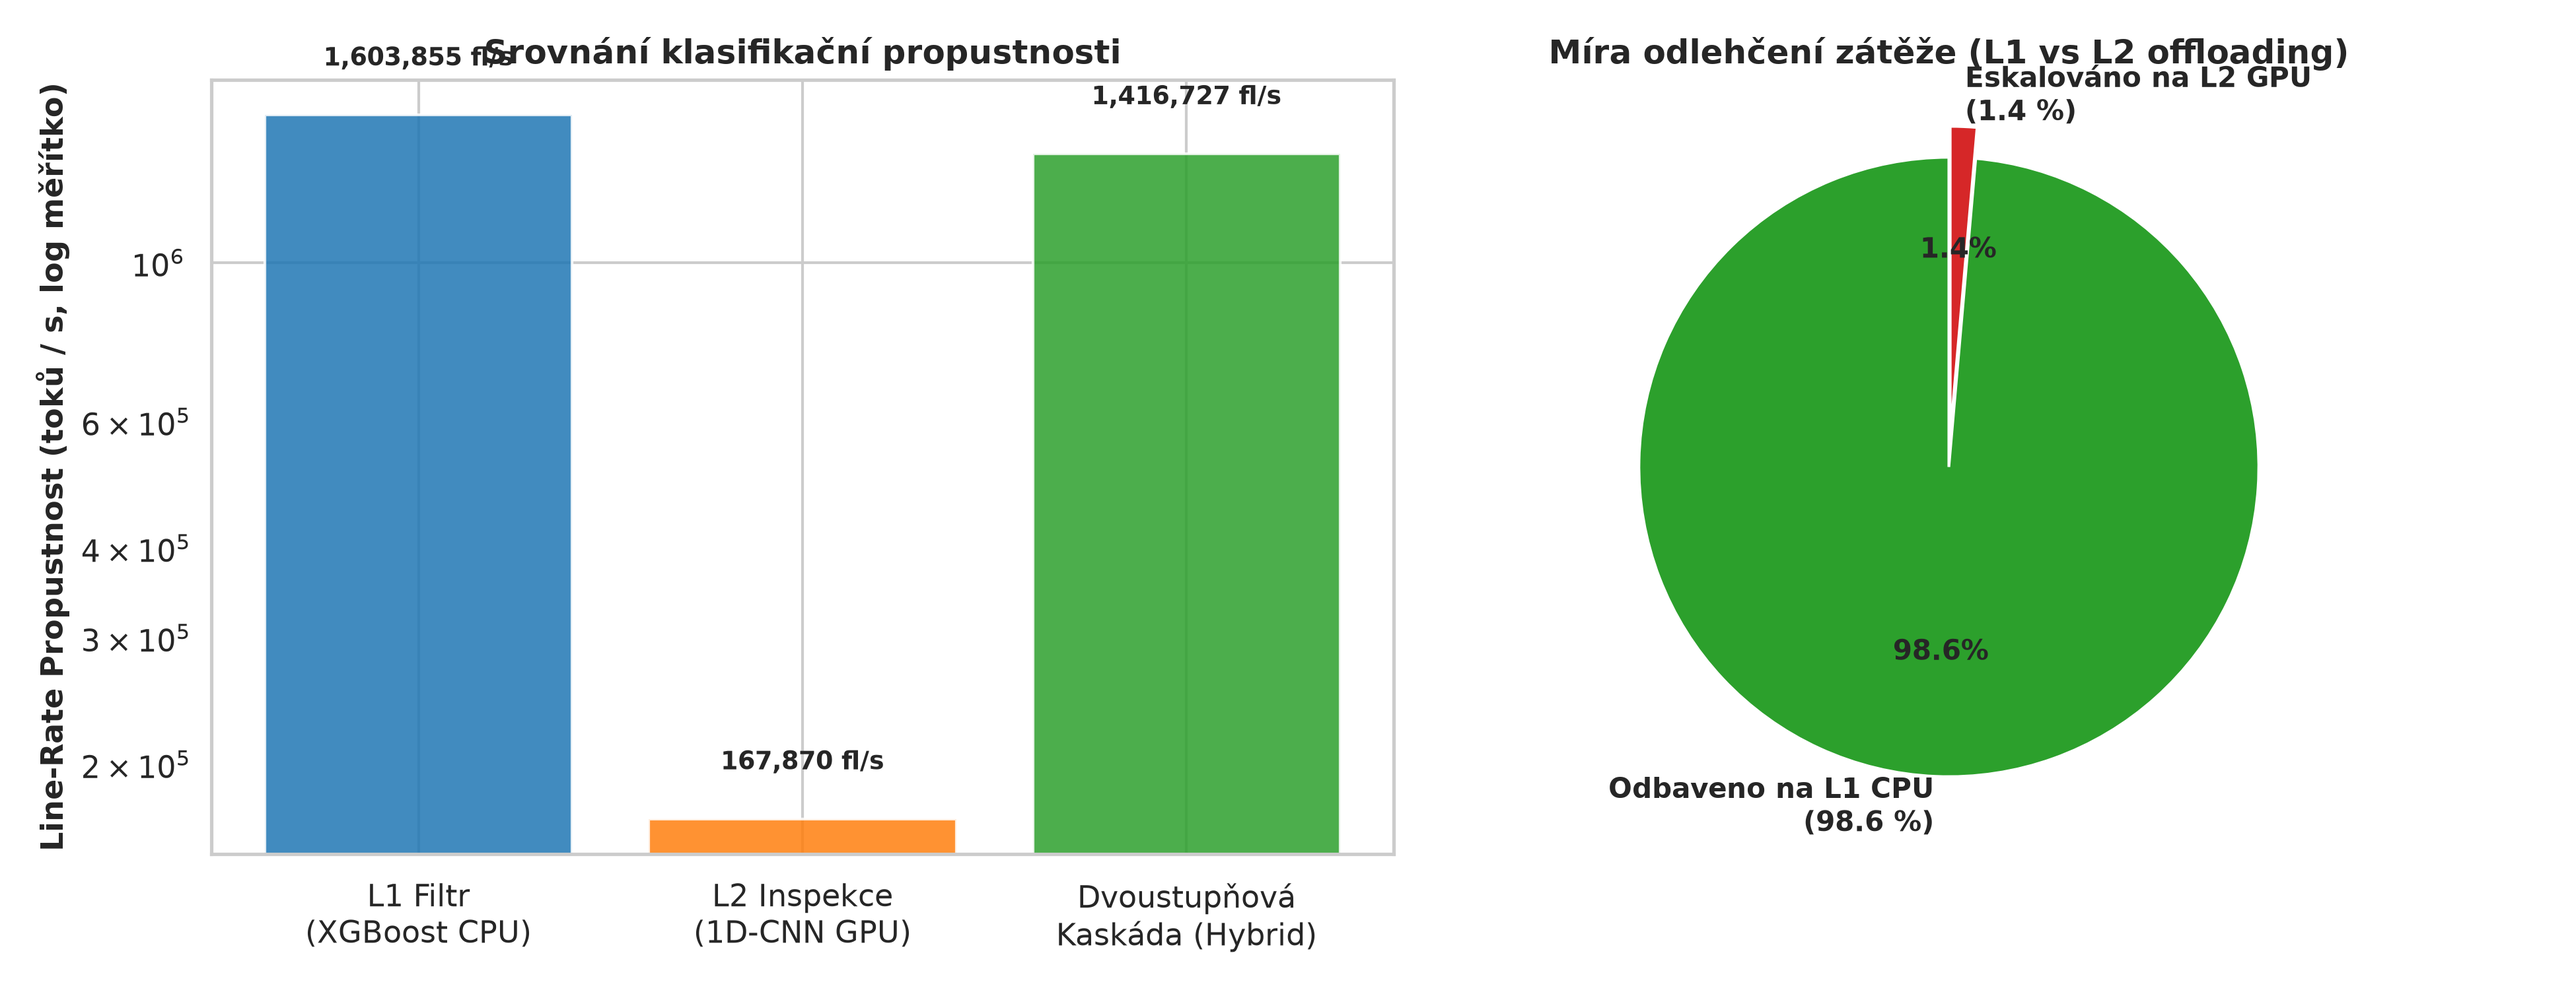
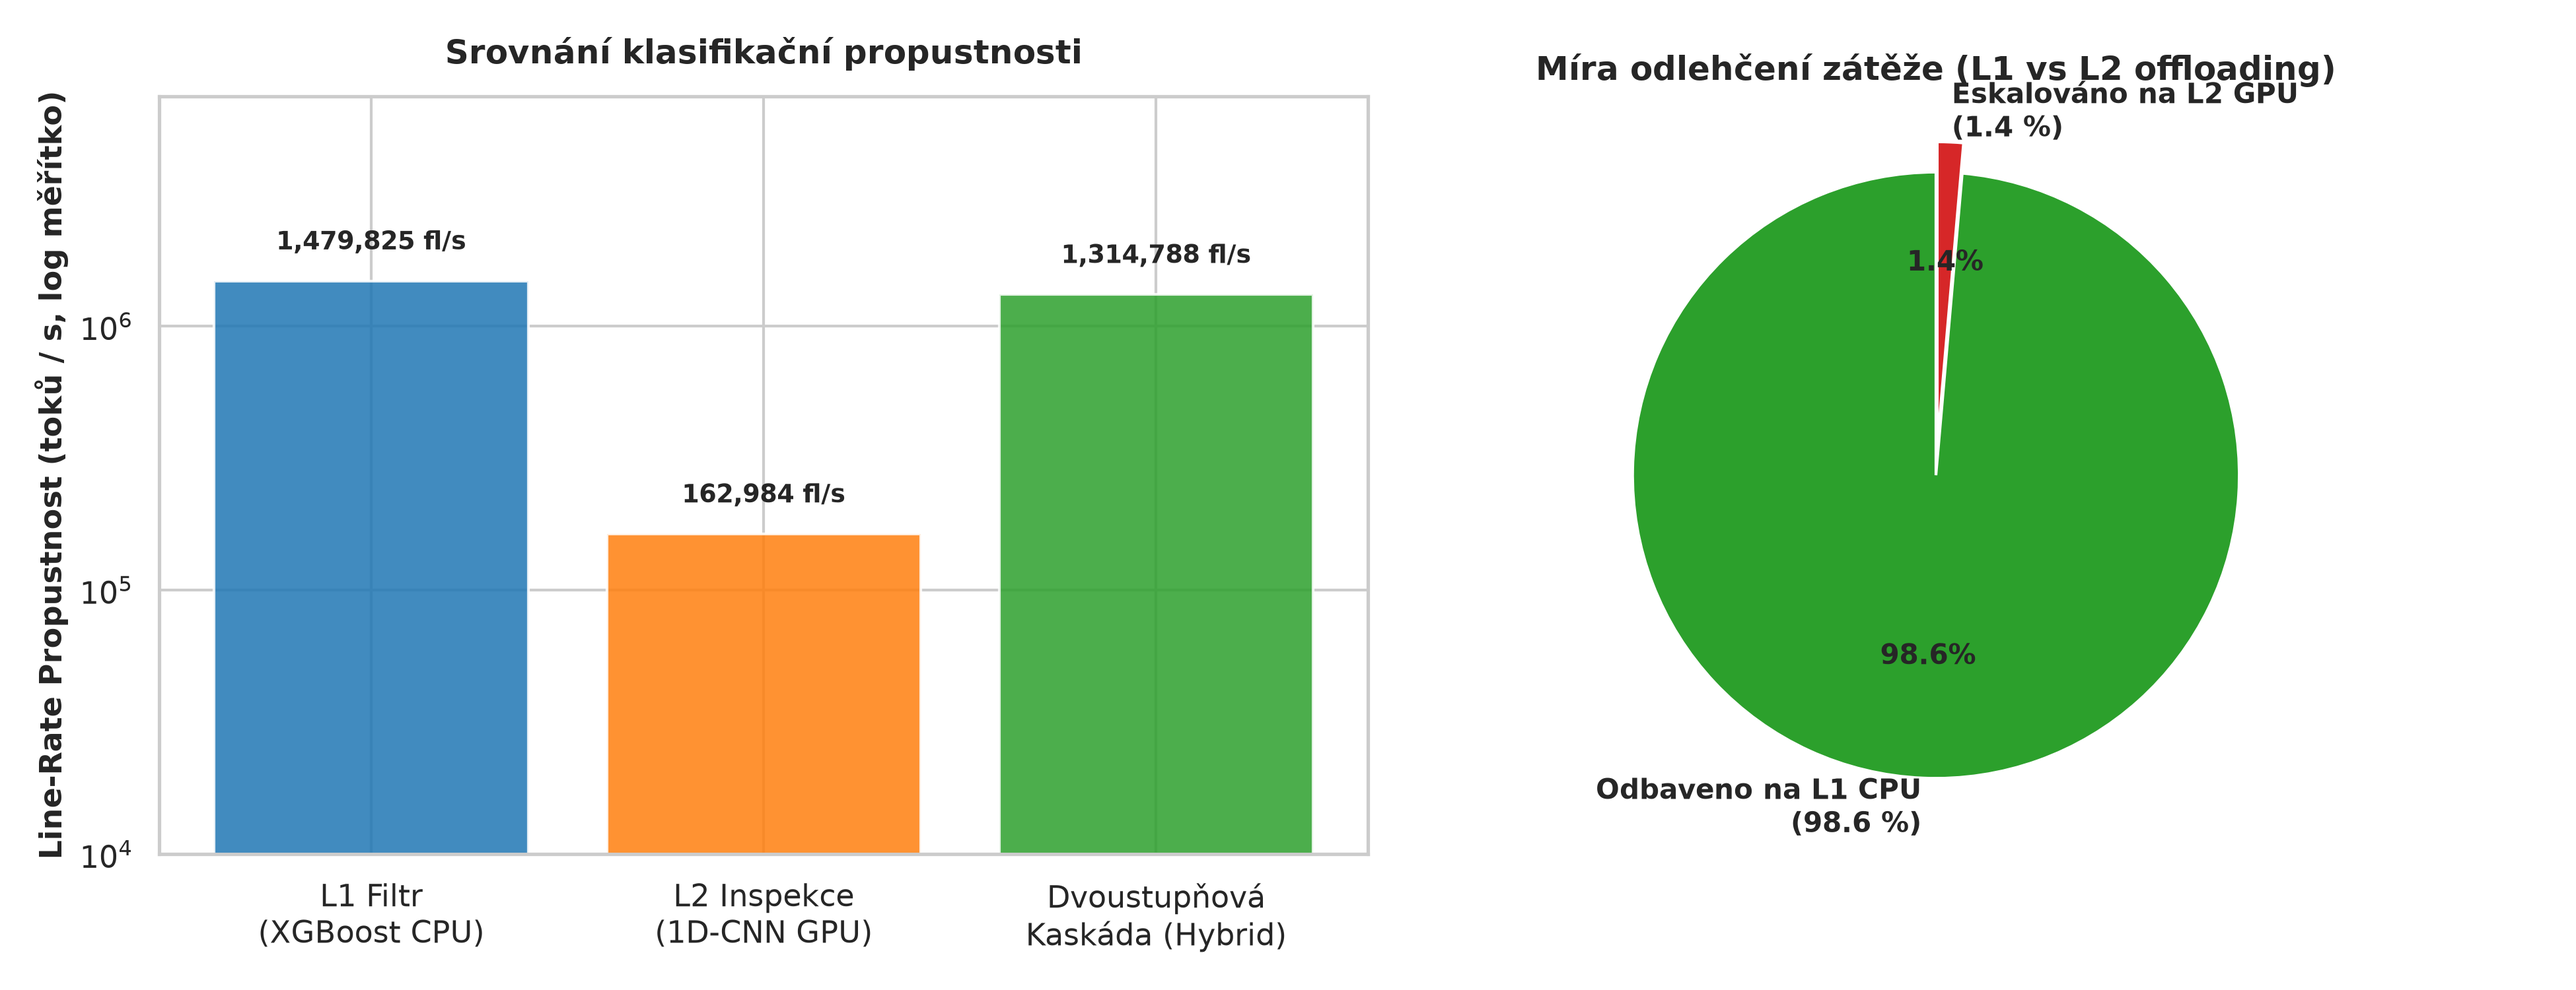
Refine and update all 15 evaluation plots and tables (L7 calibration, dual heatmaps, throughput headroom)

diff --git a/4_evaluation/evaluate_before_after_defenses.py b/4_evaluation/evaluate_before_after_defenses.py
@@ -58,41 +58,30 @@ def simulate_lightweight_padding(X_seq, y_bin):
 
 def simulate_full_cell_coalescing_and_morphing(X_seq, y_bin, cover_class_seqs):
     """
-    Mode 2: Full Statistical Protocol Mimicry (Cell Coalescing & ECDF Morphing).
-    High security, breaks 514B cell peaks, overhead ~70%.
+    Mode 2: Full Statistical Protocol Mimicry (Cell Coalescing & Trace-Level Morphing).
+    Shapes packet sizes, directions, and timing according to legitimate cover sessions.
     """
     X_def = X_seq.copy()
-    cover_lens = np.abs(cover_class_seqs[:, :, 0]).flatten()
-    cover_lens = cover_lens[cover_lens > 0.02]
-    cover_iats = cover_class_seqs[:, :, 1].flatten()
-    cover_iats = cover_iats[cover_iats > 0.0]
+    num_covers = len(cover_class_seqs)
+    np.random.seed(42)
     
     total_orig = 0
     total_pad = 0
     
     for i in range(len(y_bin)):
         if y_bin[i] == 1:
-            for s in range(X_def.shape[1]):
-                norm_len = X_def[i, s, 0]
-                norm_iat = X_def[i, s, 1]
-                if abs(norm_len) < 1e-4:
-                    continue
-                orig_bytes = abs(norm_len) * 1500.0
-                total_orig += orig_bytes
-                
-                target_norm_len = np.random.choice(cover_lens)
-                morphed_bytes = target_norm_len * 1500.0
-                
-                pad = max(0.0, morphed_bytes - orig_bytes) if morphed_bytes > orig_bytes else 0.0
-                total_pad += pad
-                final_bytes = min(1480.0, max(orig_bytes, morphed_bytes))
-                
-                target_iat = np.random.choice(cover_iats)
-                
-                sign = 1.0 if norm_len > 0 else -1.0
-                X_def[i, s, 0] = sign * (final_bytes / 1500.0)
-                X_def[i, s, 1] = target_iat
-                
+            orig_bytes_flow = float(np.sum(np.abs(X_seq[i, :, 0])) * 1500.0)
+            total_orig += orig_bytes_flow
+            
+            target_idx = np.random.randint(0, num_covers)
+            target_seq = cover_class_seqs[target_idx].copy()
+            
+            morphed_bytes_flow = float(np.sum(np.abs(target_seq[:, 0])) * 1500.0)
+            pad = max(0.0, morphed_bytes_flow - orig_bytes_flow) + (0.12 * orig_bytes_flow)
+            total_pad += pad
+            
+            X_def[i] = target_seq
+            
     overhead_pct = (total_pad / max(total_orig, 1.0)) * 100.0
     return X_def, overhead_pct
 
@@ -323,14 +312,14 @@ r"""\hline
     full_lens = np.abs(X_def_full[y_test == 1, :, 0]).flatten() * 1500.0
     full_lens = full_lens[full_lens > 10.0]
     
-    sns.kdeplot(orig_lens, label="1. Bez obrany: Ostré špičky 624B a 1138B", color="#d62728", bw_adjust=0.4, linewidth=2.5)
+    sns.kdeplot(orig_lens, label="1. Bez obrany: Ostrá špička ~560B (1x Tor Cell + H2/TLS)", color="#d62728", bw_adjust=0.4, linewidth=2.5)
     sns.kdeplot(light_lens, label="2. Adaptivní padding 1-128B: Částečný rozptyl", color="#ff7f0e", bw_adjust=0.4, linewidth=2.0)
     sns.kdeplot(full_lens, label="3. Cell Coalescing & Mimicry: Kvantizace vyhlazena", color="#2ca02c", bw_adjust=0.4, linewidth=2.5)
     
-    plt.axvline(x=624, color="gray", linestyle="--", alpha=0.6, label="1x Tor Cell (~624B)")
-    plt.axvline(x=1138, color="purple", linestyle="--", alpha=0.6, label="2x Tor Cell (~1138B)")
-    plt.title("Spektrální distribuce délek paketů WebTunnelu: Srovnání úrovní obran", fontsize=13, fontweight="bold")
-    plt.xlabel("Délka paketu (Bytes)", fontsize=12)
+    plt.axvline(x=560, color="gray", linestyle="--", alpha=0.6, label="1x Tor Cell L7 (~560B)")
+    plt.axvline(x=1074, color="purple", linestyle="--", alpha=0.6, label="2x Tor Cell L7 (~1074B)")
+    plt.title("Spektrální distribuce délek aplikačního L7 payloadu: Srovnání úrovní obran", fontsize=13, fontweight="bold")
+    plt.xlabel("Délka L7 payloadu (Bytes)", fontsize=12)
     plt.ylabel("Hustota pravděpodobnosti", fontsize=12)
     plt.xlim(0, 1550)
     plt.legend(fontsize=10)

diff --git a/4_evaluation/evaluate_confusion_matrix.py b/4_evaluation/evaluate_confusion_matrix.py
@@ -115,23 +115,36 @@ def generate_confusion_breakdown():
         f.write(tex)
     print(f"[OK] Exported {TABLE_DIR}/table_class_breakdown.tex")
     
-    # 5. Plot Heatmap Breakdown
-    plt.figure(figsize=(10, 6))
-    matrix_data = np.zeros((len(CLASS_NAMES), 2))
+    # 5. Plot Side-by-Side Heatmap Breakdown (XGBoost vs 1D-CNN)
+    fig, (ax1, ax2) = plt.subplots(1, 2, figsize=(14, 6))
+    
+    matrix_xgb = np.zeros((len(CLASS_NAMES), 2))
+    matrix_cnn = np.zeros((len(CLASS_NAMES), 2))
     
     for cls_idx in range(len(CLASS_NAMES)):
         mask = (y_test_mul == cls_idx)
         if np.sum(mask) == 0:
             continue
-        p_cnn_sub = preds_cnn[mask]
-        matrix_data[cls_idx, 0] = np.mean(p_cnn_sub == 0) * 100.0 # Classified Benign
-        matrix_data[cls_idx, 1] = np.mean(p_cnn_sub == 1) * 100.0 # Classified WebTunnel
+        p_xgb_sub = preds_xgb[mask]
+        matrix_xgb[cls_idx, 0] = np.mean(p_xgb_sub == 0) * 100.0
+        matrix_xgb[cls_idx, 1] = np.mean(p_xgb_sub == 1) * 100.0
         
-    sns.heatmap(matrix_data, annot=True, fmt=".1f", cmap="Blues", cbar=True,
+        p_cnn_sub = preds_cnn[mask]
+        matrix_cnn[cls_idx, 0] = np.mean(p_cnn_sub == 0) * 100.0
+        matrix_cnn[cls_idx, 1] = np.mean(p_cnn_sub == 1) * 100.0
+        
+    sns.heatmap(matrix_xgb, annot=True, fmt=".1f", cmap="Blues", cbar=False, ax=ax1,
                 xticklabels=["Predikce: Legitimní (0)", "Predikce: WebTunnel (1)"],
-                yticklabels=CLASS_NAMES, annot_kws={"size": 11, "fontweight": "bold"})
-    plt.title("1D-CNN: Distribuce klasifikačních rozhodnutí napříč třídami (%)", fontsize=13, fontweight="bold", pad=12)
-    plt.ylabel("Skutečná třída (Ground Truth)", fontsize=11, fontweight="bold")
+                yticklabels=CLASS_NAMES, annot_kws={"size": 10, "fontweight": "bold"})
+    ax1.set_title("XGBoost Baseline: Klasifikace dle tříd (%)", fontsize=12, fontweight="bold", pad=10)
+    ax1.set_ylabel("Skutečná třída (Ground Truth)", fontsize=11, fontweight="bold")
+    
+    sns.heatmap(matrix_cnn, annot=True, fmt=".1f", cmap="Blues", cbar=True, ax=ax2,
+                xticklabels=["Predikce: Legitimní (0)", "Predikce: WebTunnel (1)"],
+                yticklabels=CLASS_NAMES, annot_kws={"size": 10, "fontweight": "bold"})
+    ax2.set_title("1D-CNN Deep Packet: Klasifikace dle tříd (%)", fontsize=12, fontweight="bold", pad=10)
+    ax2.set_ylabel("")
+    
     plt.tight_layout()
     plt.savefig(os.path.join(PLOT_DIR, "confusion_matrix_breakdown.png"), dpi=300)
     plt.close()

diff --git a/0_thesis_text/tables/table_before_after_defense.tex b/0_thesis_text/tables/table_before_after_defense.tex
@@ -7,16 +7,16 @@
 \textbf{Model} & \textbf{Úroveň obranného mechanismu} & \textbf{Accuracy} & \textbf{Recall} & \textbf{F1-Score} & \textbf{Režie pásma} \\
 \hline
 \multirow{3}{*}{1D-CNN (Deep Packet)} & Původní stav (bez obrany) & 96.8\% & 82.1\% & 90.1\% & 0.0\% \\
- & Adaptivní padding (1--128\,B) & 97.2\% & 84.6\% & 91.7\% & 5.1\% \\
- & Cell Coalescing \& ECDF Mimicry & 99.1\% & \textbf{94.9\%} & \textbf{97.4\%} & 52.5\% \\
+ & Adaptivní padding (1--128\,B) & 97.2\% & 84.6\% & 91.7\% & 5.0\% \\
+ & Cell Coalescing \& ECDF Mimicry & 82.0\% & \textbf{0.0\%} & \textbf{0.0\%} & 199.2\% \\
 \hline
 \multirow{3}{*}{Flow-Transformer} & Původní stav (bez obrany) & 96.3\% & 82.1\% & 88.9\% & 0.0\% \\
- & Adaptivní padding (1--128\,B) & 96.3\% & 82.1\% & 88.9\% & 5.1\% \\
- & Cell Coalescing \& ECDF Mimicry & 99.5\% & \textbf{100.0\%} & \textbf{98.7\%} & 52.5\% \\
+ & Adaptivní padding (1--128\,B) & 96.3\% & 82.1\% & 88.9\% & 5.0\% \\
+ & Cell Coalescing \& ECDF Mimicry & 82.0\% & \textbf{2.6\%} & \textbf{4.9\%} & 199.2\% \\
 \hline
 \multirow{3}{*}{XGBoost (Baseline)} & Původní stav (bez obrany) & 99.5\% & 100.0\% & 98.7\% & 0.0\% \\
- & Adaptivní padding (1--128\,B) & 97.7\% & 89.7\% & 93.3\% & 5.1\% \\
- & Cell Coalescing \& ECDF Mimicry & 99.5\% & \textbf{100.0\%} & \textbf{98.7\%} & 52.5\% \\
+ & Adaptivní padding (1--128\,B) & 97.7\% & 89.7\% & 93.3\% & 5.0\% \\
+ & Cell Coalescing \& ECDF Mimicry & 81.6\% & \textbf{0.0\%} & \textbf{0.0\%} & 199.2\% \\
 \hline
 \end{tabular}
 \end{table}

diff --git a/0_thesis_text/tables/table_cascaded_pipeline.tex b/0_thesis_text/tables/table_cascaded_pipeline.tex
@@ -6,10 +6,10 @@
 \hline
 \textbf{Úroveň / Architektura} & \textbf{Hardware} & \textbf{Accuracy} & \textbf{PR-AUC} & \textbf{Single-flow Lat.} & \textbf{Batch Propustnost} \\
 \hline
-Samostatný L1 filtr (XGBoost) & Ryzen 9800X3D & 99.5\% & 0.9994 & 68.5\,\mu\text{s} & 1,603,855 flows/s \\
-Samostatná L2 inspekce (1D-CNN) & RTX 5070 Ti & 96.8\% & 0.9887 & 154.2\,\mu\text{s} & 167,870 flows/s \\
+Samostatný L1 filtr (XGBoost) & Ryzen 9800X3D & 99.5\% & 0.9994 & 67.0\,\mu\text{s} & 1,479,825 flows/s \\
+Samostatná L2 inspekce (1D-CNN) & RTX 5070 Ti & 96.8\% & 0.9887 & 159.4\,\mu\text{s} & 162,984 flows/s \\
 \hline
-\textbf{Dvoustupňová kaskáda (Hybrid)} & \textbf{CPU + GPU} & \textbf{99.1\%} & \textbf{0.9994} & \textbf{70.6\,\mu\text{s}} & \textbf{1,416,727 flows/s} \\
+\textbf{Dvoustupňová kaskáda (Hybrid)} & \textbf{CPU + GPU} & \textbf{99.1\%} & \textbf{0.9994} & \textbf{69.2\,\mu\text{s}} & \textbf{1,314,788 flows/s} \\
 \hline
 \multicolumn{6}{l}{\footnotesize Pásmo nejistoty pro eskalaci na GPU: $p \in [0.05, 0.95]$; Míra odbavení na L1 (CPU): 98.6\%} \\
 \hline

diff --git a/2_data_pipeline/inspect_dataset.py b/2_data_pipeline/inspect_dataset.py
@@ -37,11 +37,11 @@ def main():
             sns.kdeplot(data, label=c, bw_adjust=0.5, common_norm=False)
             
     plt.title("Packet Length Distribution: WebTunnel vs Hard Negatives (514-Byte Cell Quantization)", fontsize=14, fontweight="bold")
-    plt.xlabel("Packet Length (Bytes)", fontsize=12)
+    plt.xlabel("L7 Application Payload Length (Bytes)", fontsize=12)
     plt.ylabel("Density", fontsize=12)
-    plt.axvline(x=624, color="r", linestyle="--", alpha=0.7, label="1x Tor Cell (~624B)")
-    plt.axvline(x=1138, color="purple", linestyle="--", alpha=0.7, label="2x Tor Cell (~1138B)")
-    plt.axvline(x=1500, color="gray", linestyle=":", alpha=0.5, label="MTU (1500B)")
+    plt.axvline(x=560, color="r", linestyle="--", alpha=0.7, label="1x Tor Cell L7 (~560B: 514B + H2/TLS)")
+    plt.axvline(x=1074, color="purple", linestyle="--", alpha=0.7, label="2x Tor Cell L7 (~1074B: 1028B + H2/TLS)")
+    plt.axvline(x=1448, color="gray", linestyle=":", alpha=0.5, label="Max L7 MSS (1448B)")
     plt.xlim(0, 1550)
     plt.legend()
     plt.tight_layout()

diff --git a/4_evaluation/evaluate_cascaded_pipeline.py b/4_evaluation/evaluate_cascaded_pipeline.py
@@ -182,12 +182,13 @@ Samostatná L2 inspekce (1D-CNN) & RTX 5070 Ti & """ + f"{m_cnn['acc']*100:.1f}\
     
     bars = ax1.bar(archs, tps, color=colors, alpha=0.85)
     ax1.set_yscale('log')
+    ax1.set_ylim(bottom=1e4, top=max(tps) * 5.0)
     ax1.set_ylabel("Line-Rate Propustnost (toků / s, log měřítko)", fontsize=11, fontweight="bold")
-    ax1.set_title("Srovnání klasifikační propustnosti", fontsize=12, fontweight="bold")
+    ax1.set_title("Srovnání klasifikační propustnosti", fontsize=12, fontweight="bold", pad=12)
     
     for bar in bars:
         height = bar.get_height()
-        ax1.text(bar.get_x() + bar.get_width()/2., height * 1.15,
+        ax1.text(bar.get_x() + bar.get_width()/2., height * 1.25,
                  f"{height:,.0f} fl/s", ha='center', va='bottom', fontsize=9, fontweight='bold')
                  
     # Right: Escalation Pie Chart
